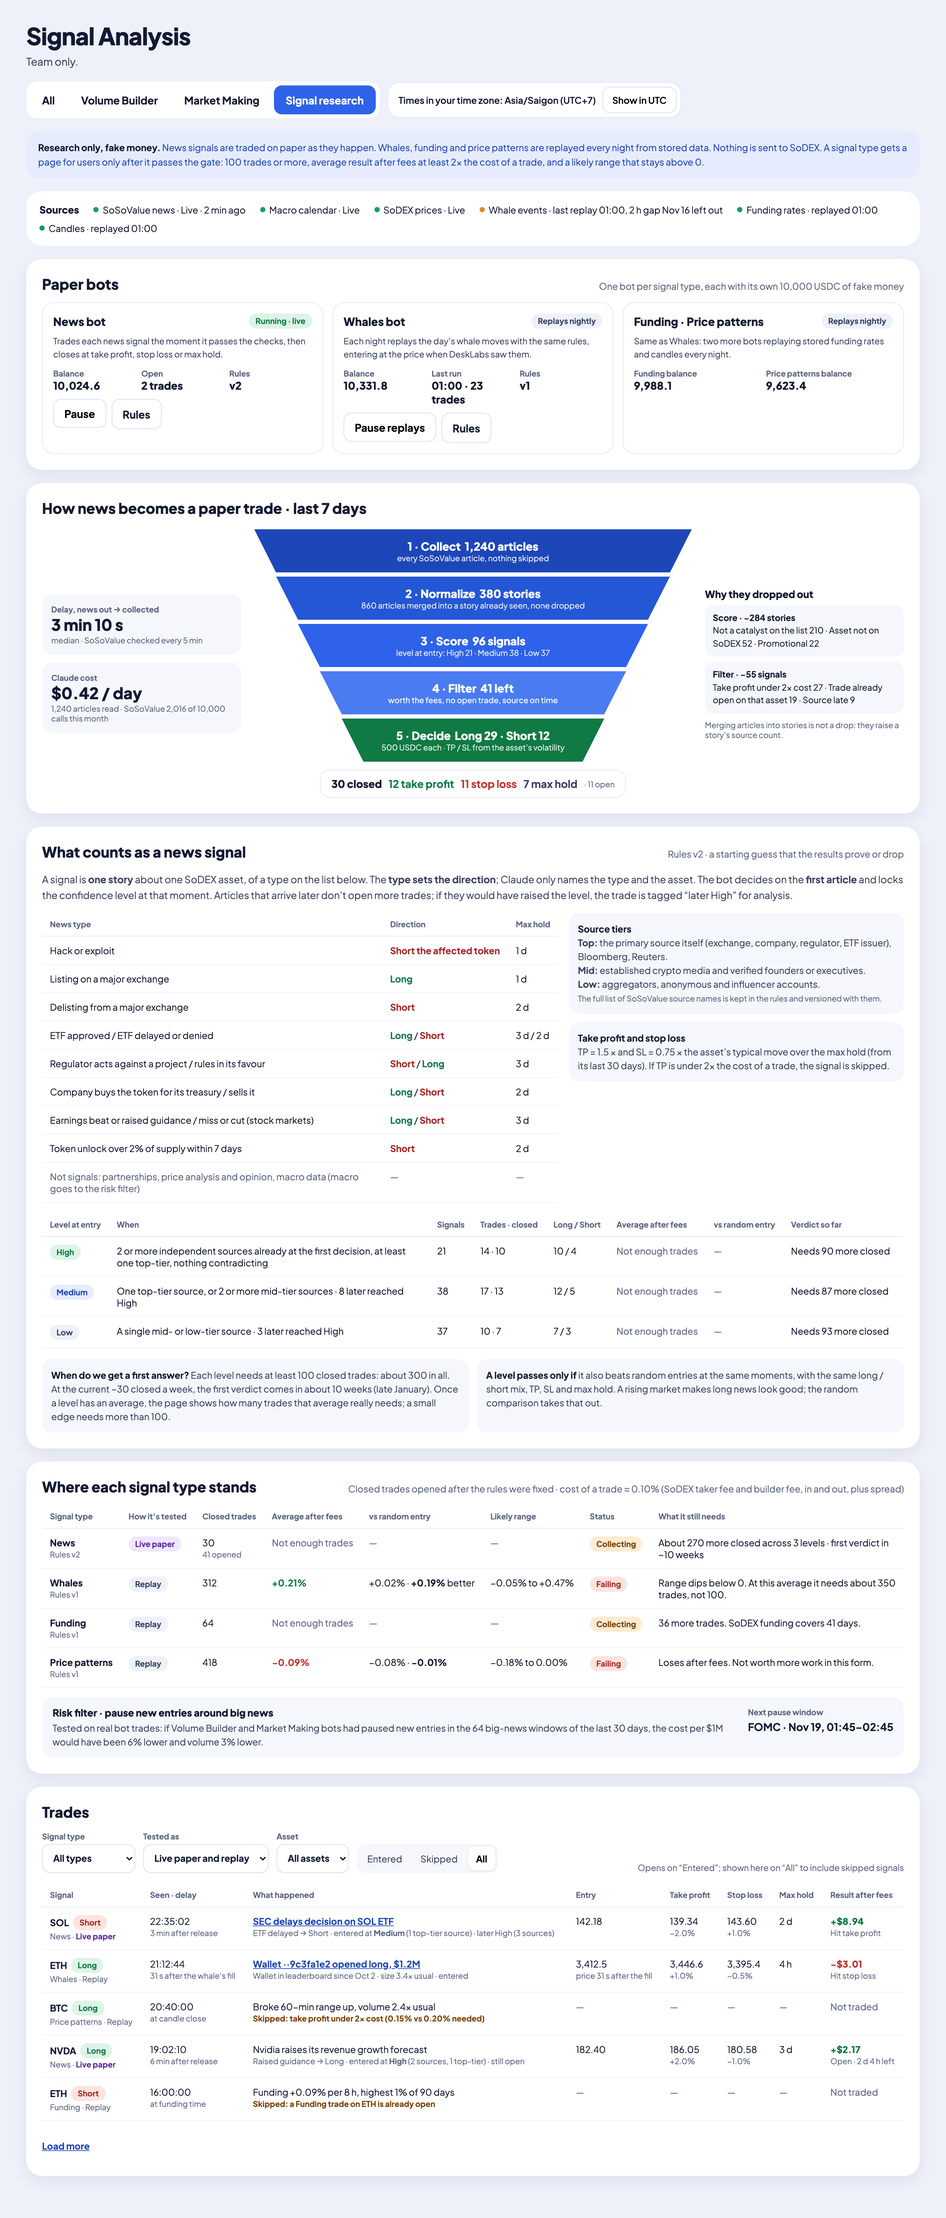
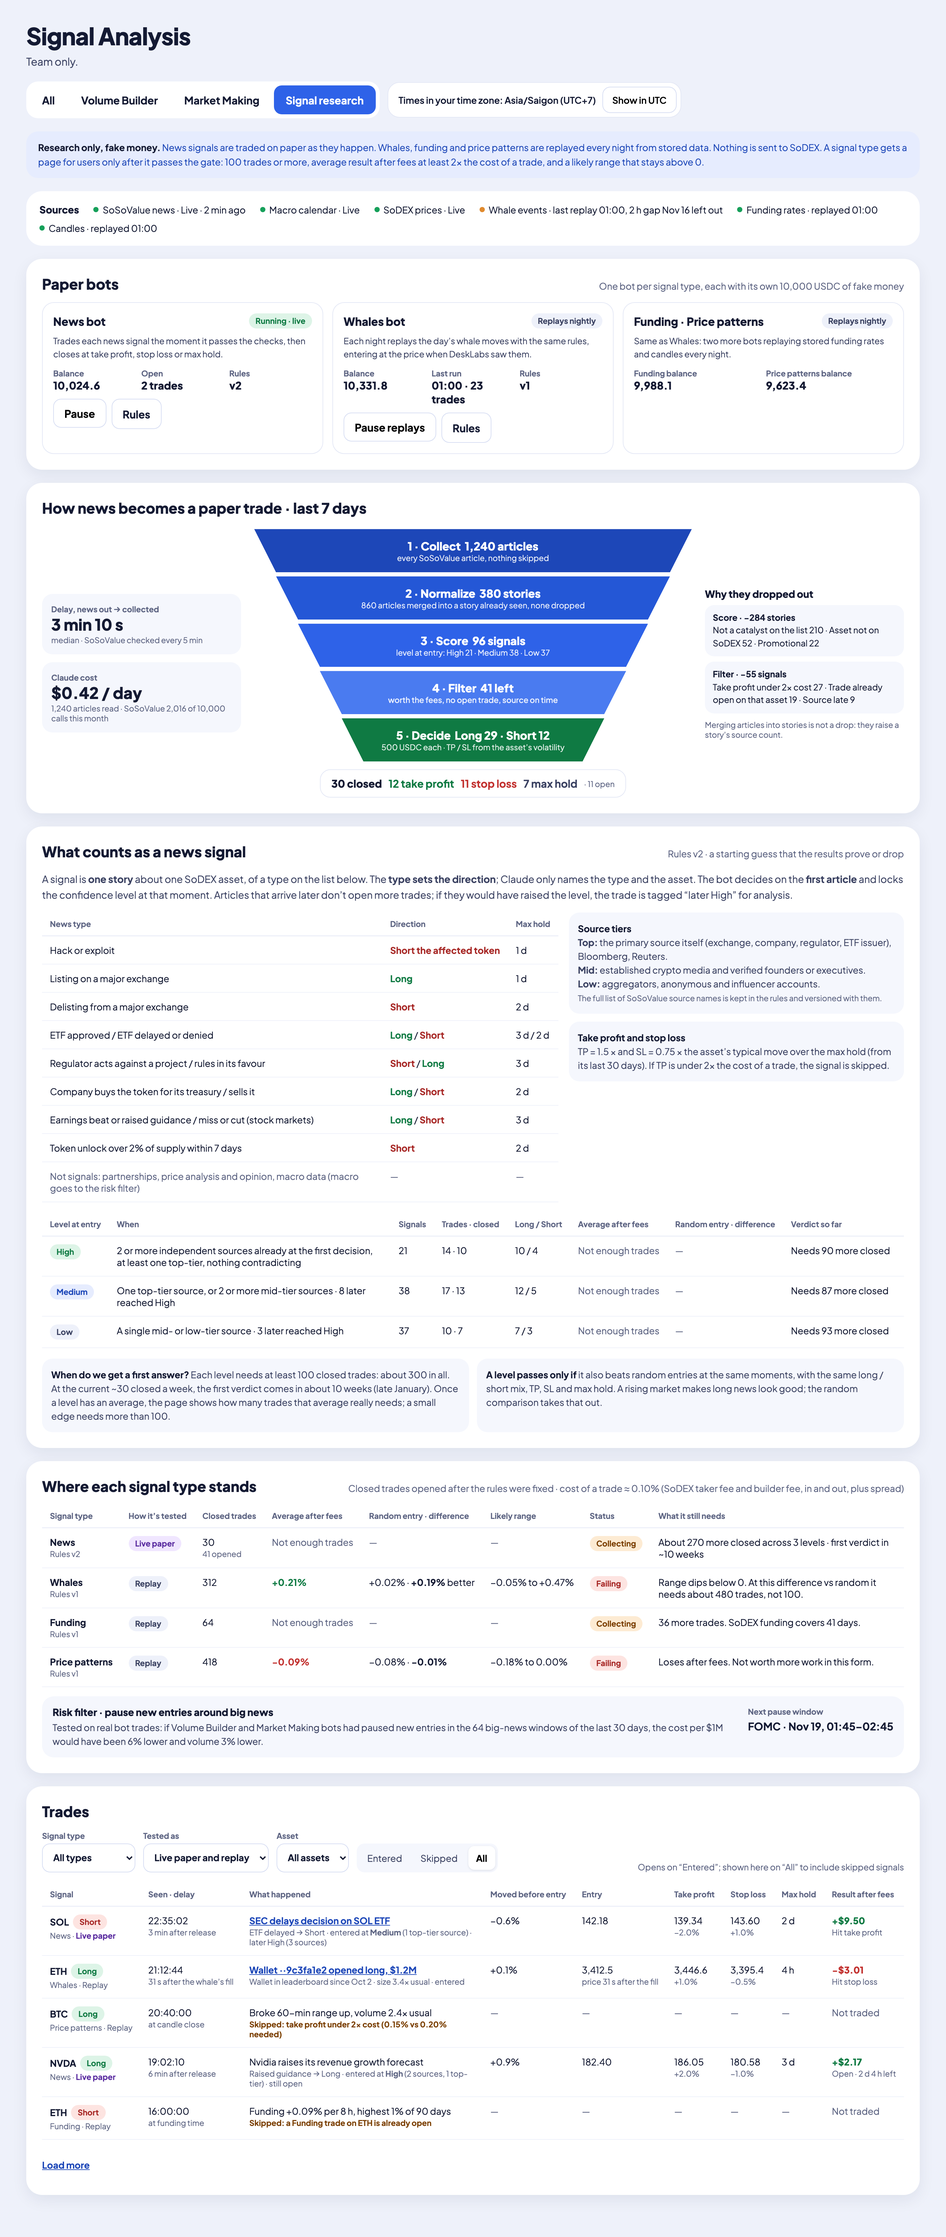
docs(mockups): Signal research v3.4, flow fixes from review (#269)

diff --git a/docs/mockups/signal-research/signal-research.html b/docs/mockups/signal-research/signal-research.html
@@ -151,7 +151,7 @@ label{display:flex;flex-direction:column;gap:4px;font-size:12px;font-weight:700;
 
     <div style="overflow-x:auto">
     <table>
-      <thead><tr><th>Level at entry</th><th>When</th><th>Signals</th><th>Trades · closed</th><th>Long / Short</th><th>Average after fees</th><th>vs random entry</th><th>Verdict so far</th></tr></thead>
+      <thead><tr><th>Level at entry</th><th>When</th><th>Signals</th><th>Trades · closed</th><th>Long / Short</th><th>Average after fees</th><th>Random entry · difference</th><th>Verdict so far</th></tr></thead>
       <tbody>
         <tr><td><span class="pill" style="background:#ddf4e7;color:#0f7a43">High</span></td><td style="white-space:normal;min-width:260px">2 or more independent sources already at the first decision, at least one top-tier, nothing contradicting</td><td>21</td><td>14 · 10</td><td>10 / 4</td><td style="color:#5f6684">Not enough trades</td><td style="color:#5f6684">—</td><td style="white-space:normal;min-width:160px">Needs 90 more closed</td></tr>
         <tr><td><span class="pill" style="background:#e6ecfe;color:#1d47b8">Medium</span></td><td style="white-space:normal;min-width:260px">One top-tier source, or 2 or more mid-tier sources · 8 later reached High</td><td>38</td><td>17 · 13</td><td>12 / 5</td><td style="color:#5f6684">Not enough trades</td><td style="color:#5f6684">—</td><td style="white-space:normal;min-width:160px">Needs 87 more closed</td></tr>
@@ -173,10 +173,10 @@ label{display:flex;flex-direction:column;gap:4px;font-size:12px;font-weight:700;
     </div>
     <div style="overflow-x:auto">
     <table>
-      <thead><tr><th>Signal type</th><th>How it’s tested</th><th>Closed trades</th><th>Average after fees</th><th>vs random entry</th><th>Likely range</th><th>Status</th><th>What it still needs</th></tr></thead>
+      <thead><tr><th>Signal type</th><th>How it’s tested</th><th>Closed trades</th><th>Average after fees</th><th>Random entry · difference</th><th>Likely range</th><th>Status</th><th>What it still needs</th></tr></thead>
       <tbody>
         <tr><td><div style="font-weight:700">News</div><div class="sub">Rules v2</div></td><td><span class="pill" style="background:#f0e6ff;color:#5a2ca0">Live paper</span></td><td>30<div class="sub">41 opened</div></td><td style="color:#5f6684">Not enough trades</td><td style="color:#5f6684">—</td><td style="color:#5f6684">—</td><td><span class="pill" style="background:#fdebd3;color:#7a3e00">Collecting</span></td><td style="white-space:normal;min-width:220px">About 270 more closed across 3 levels · first verdict in ~10 weeks</td></tr>
-        <tr><td><div style="font-weight:700">Whales</div><div class="sub">Rules v1</div></td><td><span class="pill" style="background:#eef1fa;color:#3b4262">Replay</span></td><td>312</td><td style="color:#0f7a43;font-weight:700">+0.21%</td><td>+0.02% · <b>+0.19%</b> better</td><td>−0.05% to +0.47%</td><td><span class="pill" style="background:#fde4e1;color:#a72826">Failing</span></td><td style="white-space:normal;min-width:220px">Range dips below 0. At this average it needs about 350 trades, not 100.</td></tr>
+        <tr><td><div style="font-weight:700">Whales</div><div class="sub">Rules v1</div></td><td><span class="pill" style="background:#eef1fa;color:#3b4262">Replay</span></td><td>312</td><td style="color:#0f7a43;font-weight:700">+0.21%</td><td>+0.02% · <b>+0.19%</b> better</td><td>−0.05% to +0.47%</td><td><span class="pill" style="background:#fde4e1;color:#a72826">Failing</span></td><td style="white-space:normal;min-width:220px">Range dips below 0. At this difference vs random it needs about 480 trades, not 100.</td></tr>
         <tr><td><div style="font-weight:700">Funding</div><div class="sub">Rules v1</div></td><td><span class="pill" style="background:#eef1fa;color:#3b4262">Replay</span></td><td>64</td><td style="color:#5f6684">Not enough trades</td><td style="color:#5f6684">—</td><td style="color:#5f6684">—</td><td><span class="pill" style="background:#fdebd3;color:#7a3e00">Collecting</span></td><td style="white-space:normal;min-width:220px">36 more trades. SoDEX funding covers 41 days.</td></tr>
         <tr><td><div style="font-weight:700">Price patterns</div><div class="sub">Rules v1</div></td><td><span class="pill" style="background:#eef1fa;color:#3b4262">Replay</span></td><td>418</td><td style="color:#c2312f;font-weight:700">−0.09%</td><td>−0.08% · <b>−0.01%</b></td><td>−0.18% to 0.00%</td><td><span class="pill" style="background:#fde4e1;color:#a72826">Failing</span></td><td style="white-space:normal;min-width:220px">Loses after fees. Not worth more work in this form.</td></tr>
       </tbody>
@@ -210,40 +210,40 @@ label{display:flex;flex-direction:column;gap:4px;font-size:12px;font-weight:700;
     </div>
     <div style="overflow-x:auto">
     <table>
-      <thead><tr><th>Signal</th><th>Seen · delay</th><th>What happened</th><th>Entry</th><th>Take profit</th><th>Stop loss</th><th>Max hold</th><th>Result after fees</th></tr></thead>
+      <thead><tr><th>Signal</th><th>Seen · delay</th><th>What happened</th><th>Moved before entry</th><th>Entry</th><th>Take profit</th><th>Stop loss</th><th>Max hold</th><th>Result after fees</th></tr></thead>
       <tbody>
         <tr>
           <td><div style="display:flex;gap:6px;align-items:center"><span style="font-weight:700">SOL</span><span class="pill" style="background:#fde4e1;color:#a72826">Short</span></div><div class="sub">News · <span style="color:#5a2ca0;font-weight:700">Live paper</span></div></td>
           <td>22:35:02<div class="sub">3 min after release</div></td>
           <td style="white-space:normal;min-width:260px"><a href="Trade.dc.html" style="font-weight:700">SEC delays decision on SOL ETF</a><div class="sub">ETF delayed → Short · entered at <b>Medium</b> (1 top-tier source) · later High (3 sources)</div></td>
-          <td>142.18</td><td>139.34<div class="sub">−2.0%</div></td><td>143.60<div class="sub">+1.0%</div></td><td>2 d</td>
-          <td><span style="color:#0f7a43;font-weight:800">+$8.94</span><div class="sub">Hit take profit</div></td>
+          <td>−0.6%</td><td>142.18</td><td>139.34<div class="sub">−2.0%</div></td><td>143.60<div class="sub">+1.0%</div></td><td>2 d</td>
+          <td><span style="color:#0f7a43;font-weight:800">+$9.50</span><div class="sub">Hit take profit</div></td>
         </tr>
         <tr>
           <td><div style="display:flex;gap:6px;align-items:center"><span style="font-weight:700">ETH</span><span class="pill" style="background:#ddf4e7;color:#0f7a43">Long</span></div><div class="sub">Whales · Replay</div></td>
           <td>21:12:44<div class="sub">31 s after the whale’s fill</div></td>
           <td style="white-space:normal;min-width:260px"><a href="Trade.dc.html" style="font-weight:700">Wallet ··9c3fa1e2 opened long, $1.2M</a><div class="sub">Wallet in leaderboard since Oct 2 · size 3.4× usual · entered</div></td>
-          <td>3,412.5<div class="sub">price 31 s after the fill</div></td><td>3,446.6<div class="sub">+1.0%</div></td><td>3,395.4<div class="sub">−0.5%</div></td><td>4 h</td>
+          <td>+0.1%</td><td>3,412.5<div class="sub">price 31 s after the fill</div></td><td>3,446.6<div class="sub">+1.0%</div></td><td>3,395.4<div class="sub">−0.5%</div></td><td>4 h</td>
           <td><span style="color:#c2312f;font-weight:800">−$3.01</span><div class="sub">Hit stop loss</div></td>
         </tr>
         <tr>
           <td><div style="display:flex;gap:6px;align-items:center"><span style="font-weight:700">BTC</span><span class="pill" style="background:#ddf4e7;color:#0f7a43">Long</span></div><div class="sub">Price patterns · Replay</div></td>
           <td>20:40:00<div class="sub">at candle close</div></td>
           <td style="white-space:normal;min-width:260px">Broke 60-min range up, volume 2.4× usual<div class="sub" style="color:#7a3e00;font-weight:700">Skipped: take profit under 2× cost (0.15% vs 0.20% needed)</div></td>
-          <td style="color:#5f6684">—</td><td style="color:#5f6684">—</td><td style="color:#5f6684">—</td><td style="color:#5f6684">—</td><td style="color:#5f6684">Not traded</td>
+          <td style="color:#5f6684">—</td><td style="color:#5f6684">—</td><td style="color:#5f6684">—</td><td style="color:#5f6684">—</td><td style="color:#5f6684">—</td><td style="color:#5f6684">Not traded</td>
         </tr>
         <tr>
           <td><div style="display:flex;gap:6px;align-items:center"><span style="font-weight:700">NVDA</span><span class="pill" style="background:#ddf4e7;color:#0f7a43">Long</span></div><div class="sub">News · <span style="color:#5a2ca0;font-weight:700">Live paper</span></div></td>
           <td>19:02:10<div class="sub">6 min after release</div></td>
           <td style="white-space:normal;min-width:260px">Nvidia raises its revenue growth forecast<div class="sub">Raised guidance → Long · entered at <b>High</b> (2 sources, 1 top-tier) · still open</div></td>
-          <td>182.40</td><td>186.05<div class="sub">+2.0%</div></td><td>180.58<div class="sub">−1.0%</div></td><td>3 d</td>
+          <td>+0.9%</td><td>182.40</td><td>186.05<div class="sub">+2.0%</div></td><td>180.58<div class="sub">−1.0%</div></td><td>3 d</td>
           <td><span style="color:#0f7a43;font-weight:800">+$2.17</span><div class="sub">Open · 2 d 4 h left</div></td>
         </tr>
         <tr>
           <td><div style="display:flex;gap:6px;align-items:center"><span style="font-weight:700">ETH</span><span class="pill" style="background:#fde4e1;color:#a72826">Short</span></div><div class="sub">Funding · Replay</div></td>
           <td>16:00:00<div class="sub">at funding time</div></td>
           <td style="white-space:normal;min-width:260px">Funding +0.09% per 8 h, highest 1% of 90 days<div class="sub" style="color:#7a3e00;font-weight:700">Skipped: a Funding trade on ETH is already open</div></td>
-          <td style="color:#5f6684">—</td><td style="color:#5f6684">—</td><td style="color:#5f6684">—</td><td style="color:#5f6684">—</td><td style="color:#5f6684">Not traded</td>
+          <td style="color:#5f6684">—</td><td style="color:#5f6684">—</td><td style="color:#5f6684">—</td><td style="color:#5f6684">—</td><td style="color:#5f6684">—</td><td style="color:#5f6684">Not traded</td>
         </tr>
       </tbody>
     </table>

diff --git a/docs/mockups/signal-research/flow.html b/docs/mockups/signal-research/flow.html
@@ -56,11 +56,11 @@ body{margin:0}
       <div class="grid">
         <div><div class="k">In</div><div class="v">One article</div></div>
         <div><div class="k">Out</div><div class="v">A story with <b>candidate tokens</b>: the coins SoSoValue tagged, plus stock tickers, kept only if SoDEX lists them</div></div>
-        <div><div class="k">Dropped</div><div class="v">No candidate token on SoDEX</div></div>
+        <div><div class="k">Dropped</div><div class="v">No candidate token on SoDEX · same text already collected (exact duplicate)</div></div>
       </div>
-      <div class="ex">Candidates: SOL · story is new</div>
+      <div class="ex">Candidates: SOL</div>
     </div>
-    <div class="side" style="background:#fff;border:1px solid #e3e7f5;color:#3b4262"><b style="color:#141a33">Same story again</b>An article on the same token and the same news type within 7 days of the first one joins that story. It never opens a trade, even after the first trade has closed; it only adds a source. A new turn (ETF delayed → ETF approved) is a new story.</div>
+    <div class="side" style="background:#fdebd3;color:#5c2f00"><b>Risk filter (separate branch)</b>Scheduled macro events (FOMC, CPI…) and market-wide news don’t become trades. They open a pause window in which Volume Builder and Market Making bots stop opening new positions. News about one token (a hack, a delisting) stays on the signal path, and may pause bots on that one market only.</div>
   </div>
   <div class="arrow"><svg width="24" height="30" viewBox="0 0 24 30" aria-hidden="true"><path d="M12 2v22M5 18l7 7 7-7" fill="none" stroke="#8fb0ff" stroke-width="3" stroke-linecap="round" stroke-linejoin="round"/></svg></div>
 
@@ -70,12 +70,12 @@ body{margin:0}
       <div class="head"><span class="num" style="background:#2e62e8">3</span><span class="title">Understand</span><span class="who">Claude + rules table</span></div>
       <div class="grid">
         <div><div class="k">In</div><div class="v">The story and its candidate tokens</div></div>
-        <div><div class="k">Out</div><div class="v">Claude names the news type, the token hit directly, and the event date. The rules table gives the direction and max hold. The source count gives the level.</div></div>
+        <div><div class="k">Out</div><div class="v">Claude answers from fixed choices only: a news type from the list, a token from the candidates, the event date. Anything else is rejected. The rules table gives the direction and max hold; the source count gives the level.</div></div>
         <div><div class="k">Dropped</div><div class="v">Not a type on the list · token only mentioned in passing · promotional · event older than 24 h</div></div>
       </div>
       <div class="ex" style="font-weight:700">SOL · Short · ETF delayed · Medium (1 top-tier source) · max hold 2 d</div>
     </div>
-    <div class="side" style="background:#fdebd3;color:#5c2f00"><b>Risk filter (separate branch)</b>Macro news and very hot news don’t become trades. They open a pause window: Volume Builder and Market Making bots stop opening new positions for that window. Measured on real bot trades.</div>
+    <div class="side" style="background:#fff;border:1px solid #e3e7f5;color:#3b4262"><b style="color:#141a33">Claude doesn’t answer</b>One retry. If it still fails, or answers outside the fixed choices, the story is marked “Not understood”: no trade, and it counts against Claude’s health on the page.</div>
   </div>
   <div class="arrow"><svg width="24" height="30" viewBox="0 0 24 30" aria-hidden="true"><path d="M12 2v22M5 18l7 7 7-7" fill="none" stroke="#8fb0ff" stroke-width="3" stroke-linecap="round" stroke-linejoin="round"/></svg></div>
 
@@ -85,12 +85,12 @@ body{margin:0}
       <div class="head"><span class="num" style="background:#4a7bf0">4</span><span class="title">Filter</span><span class="who">Code</span></div>
       <div class="grid">
         <div><div class="k">In</div><div class="v">A signal: token, direction, level, max hold</div></div>
-        <div><div class="k">Checks</div><div class="v">TP is at least 2× the round-trip cost (taker fee ×2 + builder fee ×2 + the spread measured now) · SoDEX has a price · no News trade open on this token · source was on time</div></div>
+        <div><div class="k">Checks</div><div class="v">First, is this story already known (same token + news type within 7 days)? Then: TP is at least 2× the round-trip cost (taker fee ×2 + builder fee ×2 + the spread measured now) · SoDEX has a price · no News trade open on this token · source was on time</div></div>
         <div><div class="k">Dropped</div><div class="v">Each failed check, with its reason. A thin market fails the cost check and shows “Too thin to trade”.</div></div>
       </div>
-      <div class="ex">TP 2.0% vs cost 0.10% · SOL spread 0.03% · nothing open on SOL → passes</div>
+      <div class="ex">New story · TP 2.0% vs cost 0.10% · SOL spread 0.03% · nothing open on SOL → passes</div>
     </div>
-    <div class="side" style="background:#fff;border:1px solid #e3e7f5;color:#3b4262"><b style="color:#141a33">Opposite news while a trade is open</b>No new trade. The open trade keeps its own TP, SL and max hold. The opposite story is recorded for analysis.</div>
+    <div class="side" style="background:#fff;border:1px solid #e3e7f5;color:#3b4262"><b style="color:#141a33">Same story again</b>An article on the same token and news type within 7 days of the first joins that story. It never opens a trade, even after the first trade has closed; it only adds a source. A new turn (ETF delayed → ETF approved) is a new story.<br><br><b style="color:#141a33">Opposite news while a trade is open</b>No new trade. The open trade keeps its own TP, SL and max hold.</div>
   </div>
   <div class="arrow"><svg width="24" height="30" viewBox="0 0 24 30" aria-hidden="true"><path d="M12 2v22M5 18l7 7 7-7" fill="none" stroke="#8fb0ff" stroke-width="3" stroke-linecap="round" stroke-linejoin="round"/></svg></div>
 
@@ -114,11 +114,11 @@ body{margin:0}
     <div class="step">
       <div class="head"><span class="num" style="background:#0f7a43">6</span><span class="title">Watch and close</span><span class="who">Code</span></div>
       <div class="grid">
-        <div><div class="k">How</div><div class="v">The SoDEX price is checked every second</div></div>
+        <div><div class="k">How</div><div class="v">SoDEX bid and ask checked every second: a short closes on the ask, a long on the bid</div></div>
         <div><div class="k">Closes at</div><div class="v">Take profit, stop loss or max hold, whichever comes first</div></div>
         <div><div class="k">Result</div><div class="v">After fees and spread, both legs</div></div>
       </div>
-      <div class="ex">Take profit hit Nov 20, 09:12 · +$8.94 after fees</div>
+      <div class="ex">Take profit hit Nov 20, 09:12 · +$9.50 after fees</div>
     </div>
     <div class="side" style="background:#fff;border:1px solid #e3e7f5;color:#3b4262"><b style="color:#141a33">SoDEX price missing</b>Open trades wait; TP / SL are checked again as soon as the price is back.</div>
   </div>
@@ -145,7 +145,7 @@ body{margin:0}
       <div class="head"><span class="num" style="background:#5a2ca0">8</span><span class="title">The gate · when can we trust it?</span><span class="who">Rule</span></div>
       <ul style="margin:0;padding-left:20px;display:flex;flex-direction:column;gap:6px;font-size:14px;line-height:1.5">
         <li><b>At least 100 closed trades per level</b> is the floor. Once there is an average, the page shows how many trades that average really needs: a small edge needs more (≈ (1.96 × spread ÷ difference vs random)²).</li>
-        <li><b>Beats random entries</b> at the same moments, by at least 2× the cost of a trade, with the likely range above 0.</li>
+        <li><b>Average after fees at least 2× the cost of a trade</b>, with the likely range above 0.</li><li><b>Beats random entries</b> at the same moments: the difference’s likely range stays above 0.</li>
         <li><b>Same sign in both halves</b> of the period, so one lucky week can’t carry it.</li>
         <li>At ~30 closed news trades a week, 3 levels × 100 ≈ <b>10 weeks</b> to a first answer.</li>
       </ul>
@@ -170,7 +170,7 @@ body{margin:0}
       <div style="background:#f5f7fd;border-radius:14px;padding:12px"><div class="k">Collected</div><div style="font-weight:800">22:35:02</div><div class="v" style="font-size:12px;color:#5f6684">next 5-min check</div></div>
       <div style="background:#f5f7fd;border-radius:14px;padding:12px"><div class="k">Understood</div><div style="font-weight:800">22:35:05</div><div class="v" style="font-size:12px;color:#5f6684">Claude, 3 s</div></div>
       <div style="background:#f5f7fd;border-radius:14px;padding:12px"><div class="k">Paper entry</div><div style="font-weight:800">22:35:06</div><div class="v" style="font-size:12px;color:#5f6684">price already −0.6%</div></div>
-      <div style="background:#ddf4e7;border-radius:14px;padding:12px"><div class="k">Closed</div><div style="font-weight:800">Nov 20, 09:12</div><div class="v" style="font-size:12px;color:#0f7a43">take profit · +$8.94</div></div>
+      <div style="background:#ddf4e7;border-radius:14px;padding:12px"><div class="k">Closed</div><div style="font-weight:800">Nov 20, 09:12</div><div class="v" style="font-size:12px;color:#0f7a43">take profit · +$9.50</div></div>
     </div>
   </div>
 </div>

diff --git a/docs/mockups/signal-research/mobile.html b/docs/mockups/signal-research/mobile.html
@@ -39,7 +39,7 @@ a{color:#1d47b8}a:hover{color:#2e62e8}
   <section aria-labelledby="mt" style="background:#fff;border-radius:22px;padding:16px;display:flex;flex-direction:column;gap:10px">
     <div style="display:flex;justify-content:space-between;align-items:center"><h2 id="mt" style="margin:0;font-size:18px;font-weight:800">Trades</h2><a href="#mt" style="min-height:44px;display:inline-flex;align-items:center;font-size:14px;font-weight:700">Filters</a></div>
     <a href="Trade.dc.html" class="card" style="text-decoration:none;color:#141a33">
-      <div style="display:flex;justify-content:space-between;align-items:center"><span><b>SOL</b> <span class="pill" style="background:#fde4e1;color:#a72826">Short</span></span><b style="color:#0f7a43">+$8.94</b></div>
+      <div style="display:flex;justify-content:space-between;align-items:center"><span><b>SOL</b> <span class="pill" style="background:#fde4e1;color:#a72826">Short</span></span><b style="color:#0f7a43">+$9.50</b></div>
       <span style="font-size:14px">SEC delays decision on SOL ETF</span>
       <span class="sub">News · <b style="color:#5a2ca0">Live paper</b> · 3 min after release · hit take profit</span>
       <span class="sub">Entry 142.18 · TP 139.34 · SL 143.60 · max 2 d</span>
